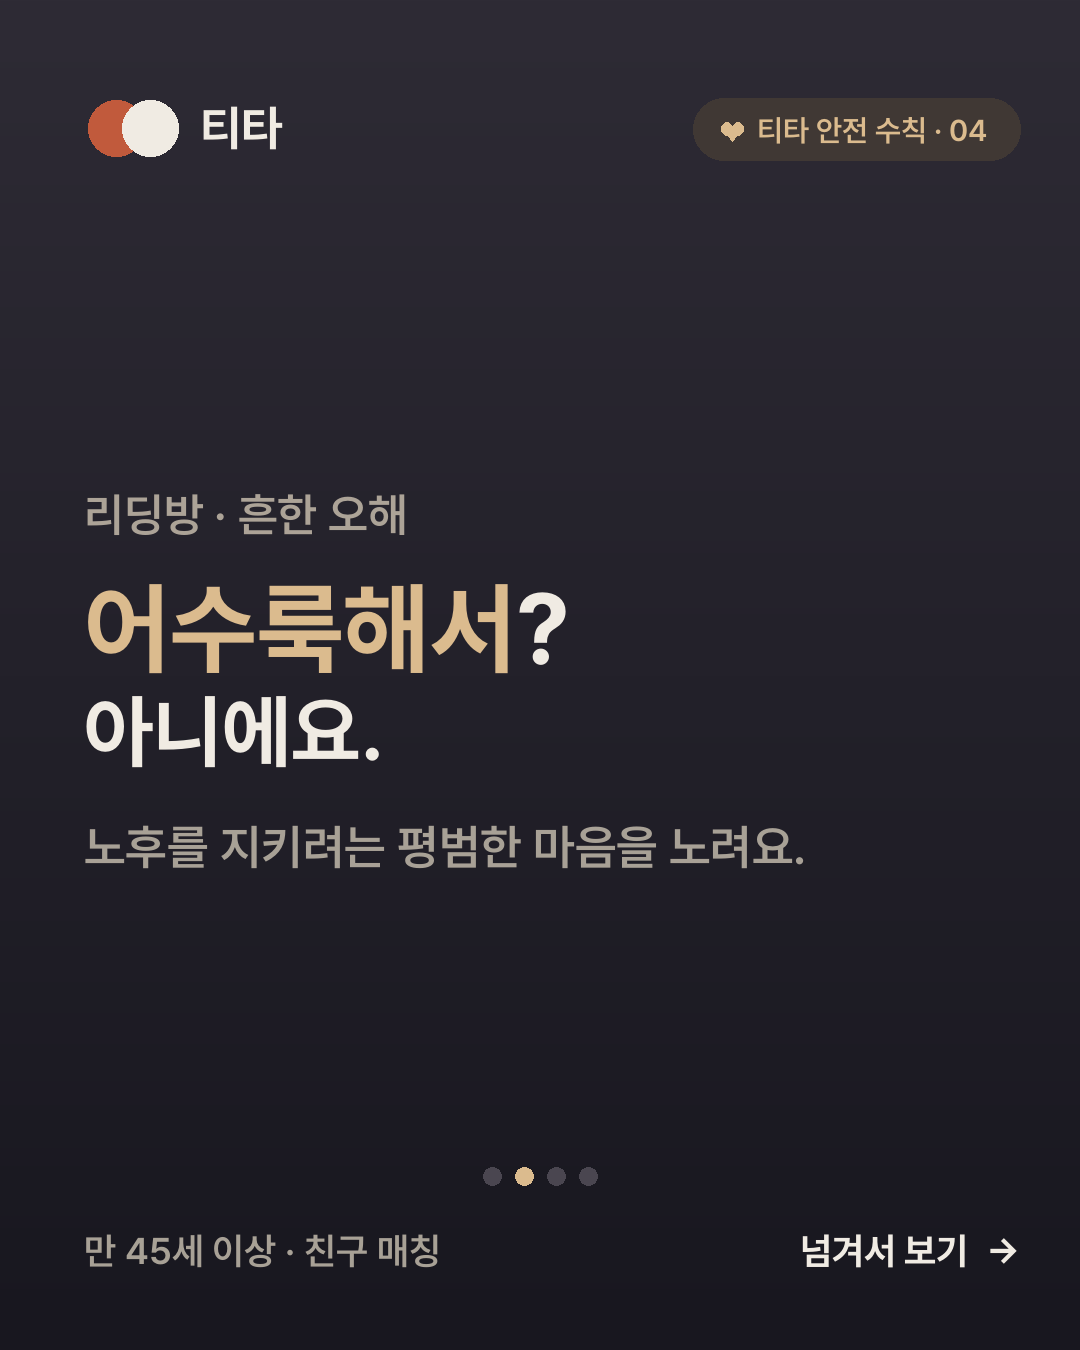
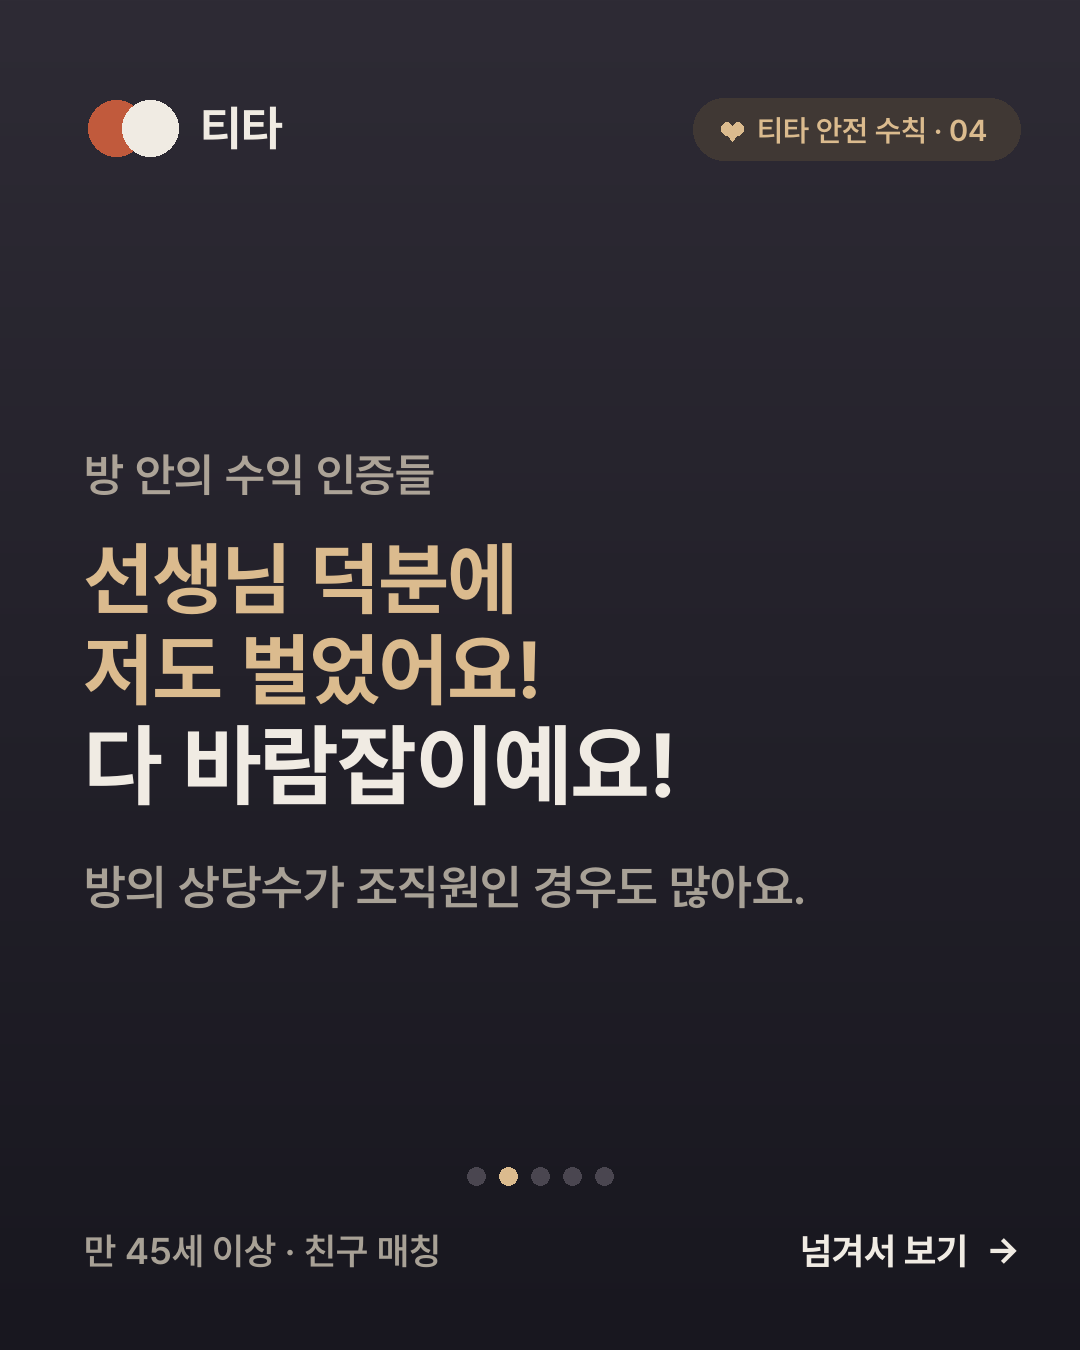
feat(blog): 리딩방 편 — 실제 수법 기반 5카드 + 미끼→반전 후크
지어낸 '고급 정보' 후크 폐기. 금융·법률 자료 기반 실제 수법으로 교체:
처음 몇 번은 진짜 맞음(방 쪼개 맞힌 방만 남김) → 수익 인증=바람잡이 →
규모(경찰청 1조 2,901억) → 신호 → 방어. 카드 5장(느낌표 통일), 본문 5섹션.
description도 '조금 더 준비하고 싶은' 애매표현 제거.

Changed region(s): [[0.0611, 0.3111, 0.7333, 0.6844], [0.4278, 0.84, 0.5806, 0.9022]]

diff --git a/src/app/blog/posts.ts b/src/app/blog/posts.ts
@@ -45,7 +45,7 @@ export const POSTS: BlogPost[] = [
     slug: "investment-reading-room-scam",
     title: "‘리딩방’은 어수룩해서 당하는 게 아닙니다 — 노후 자금을 노리는 각본",
     description:
-      "‘나는 안 속아’가 가장 위험합니다. 리딩방은 무지가 아니라 ‘조금 더 준비하고 싶은’ 마음을 노려요. 수법의 신호와, 노후를 지키는 진짜 방어를 정리했습니다.",
+      "‘나는 안 속아’가 가장 위험합니다. 처음 몇 번은 진짜로 수익이 나요 — 그게 미끼입니다. 실제 수법의 신호와, 노후를 지키는 진짜 방어를 정리했습니다.",
     date: "2026-07-28",
     category: "안전 인사이트",
     tags: [
@@ -65,21 +65,32 @@ export const POSTS: BlogPost[] = [
         type: "p",
         text: "매달 **500억 원.** 불법 투자 리딩방으로 사라지는 돈입니다. 남의 일 같으세요? 리딩방은 어수룩한 사람을 노리는 게 아니에요. **노후가 걱정돼 여윳돈이라도 안전하게 불려두고 싶은**, 그 평범한 마음을 파고듭니다. 표적이 되는 건 무지가 아니라, 노후를 지키려는 평범한 마음이에요.",
       },
-      { type: "h2", text: "각본은 ‘수익’부터 보여준다" },
+      { type: "h2", text: "처음 몇 번은, 진짜로 맞습니다" },
       {
         type: "image",
         src: "/blog/reading-room-scam/card-1.png",
-        alt: "리딩방은 어수룩해서 당하는 게 아니라 노후를 준비하려는 마음을 노린다 — 무지가 아니라 신뢰를 설계하는 수법이라는 티타 안전 수칙 카드",
+        alt: "리딩방은 처음 몇 번은 진짜로 수익이 난다 — 여러 방에 다르게 찍고 맞힌 방만 남기는 수법이 미끼라는 티타 안전 수칙 카드",
         caption: "티타 안전 수칙 · 04",
       },
       {
         type: "p",
-        text: "리딩방은 처음부터 돈을 요구하지 않아요. 무료 오픈채팅방에 초대해 종목을 몇 개 찍어주고 — 그중 몇 개가 **실제로 오릅니다.** ‘어, 진짜네?’ 하는 순간 신뢰가 생겨요. 그 신뢰가 쌓인 **다음에야** ‘VIP방’, ‘원금 보장’, ‘확정 수익’이 나오고, 그제야 돈을 넣게 됩니다. 로맨스스캠이 감정을 설계하듯, 리딩방은 **믿음을 설계**해요.",
+        text: "리딩방은 처음부터 돈을 요구하지 않아요. 무료 채팅방에서 ‘급등주’를 찍어주는데, 신기하게도 **처음 몇 번은 진짜로 맞습니다.** 방을 여럿으로 쪼개 어떤 방엔 상승을, 어떤 방엔 하락을 알려준 뒤 **맞힌 방만 남기기** 때문이에요. 그렇게 ‘이 사람 실력 있네’ 하는 확신부터 심습니다.",
+      },
+      { type: "h2", text: "방 안의 ‘수익 인증’은 대부분 가짜입니다" },
+      {
+        type: "image",
+        src: "/blog/reading-room-scam/card-2.png",
+        alt: "리딩방 안의 수익 인증과 후기는 대부분 조직원, 이른바 바람잡이라는 티타 안전 수칙 카드",
+        caption: "방의 절반이 조직원인 경우도",
+      },
+      {
+        type: "p",
+        text: "방엔 이미 수십, 수백 명이 있어요. 그런데 그 **상당수가 조직원, 이른바 ‘바람잡이’**입니다. ‘선생님 덕분에 벌었다’, ‘늦게 들어와 못 먹었다’는 수익 인증과 아쉬움이 실시간으로 올라오죠. 혼자였다면 의심했을 일도, 다 같이 믿는 분위기 속에선 판단이 흐려집니다. 믿음이 충분히 쌓인 **다음에야** ‘VIP방’·‘원금 보장’·‘확정 수익’이 나오고, 그제야 돈을 넣게 됩니다.",
       },
       { type: "h2", text: "규모부터 다릅니다" },
       {
         type: "image",
-        src: "/blog/reading-room-scam/card-2.png",
+        src: "/blog/reading-room-scam/card-3.png",
         alt: "경찰청 집계로 불법 투자 리딩방 피해는 2년간 1조 2,901억 원, 매달 500억 원이 사라진다는 티타 안전 수칙 카드",
         caption: "매달 500억이 사라진다",
       },
@@ -94,7 +105,7 @@ export const POSTS: BlogPost[] = [
       { type: "h2", text: "이 신호가 보이면, 멈추세요" },
       {
         type: "image",
-        src: "/blog/reading-room-scam/card-3.png",
+        src: "/blog/reading-room-scam/card-4.png",
         alt: "리딩방 경고 신호 — 확정 수익·원금 보장, 텔레그램 VIP방 유도, 처음 몇 번의 적중, 지금 아니면 늦는다는 압박, 잘 모르는 해외 신규 종목을 정리한 티타 안전 수칙 카드",
         caption: "이 신호, 하나만 보여도",
       },
@@ -105,7 +116,7 @@ export const POSTS: BlogPost[] = [
       { type: "h2", text: "진짜 방어는 ‘넣기 전에 물어볼 사람’" },
       {
         type: "image",
-        src: "/blog/reading-room-scam/card-4.png",
+        src: "/blog/reading-room-scam/card-5.png",
         alt: "진짜 방어는 확정 수익은 거짓이라는 사실과, 돈을 넣기 전에 물어볼 사람이 곁에 있는 것 — 혼자 결정하지 않는 것이 노후를 지킨다는 티타 안전 수칙 카드",
         caption: "넣기 전에, 한 사람에게만",
       },
